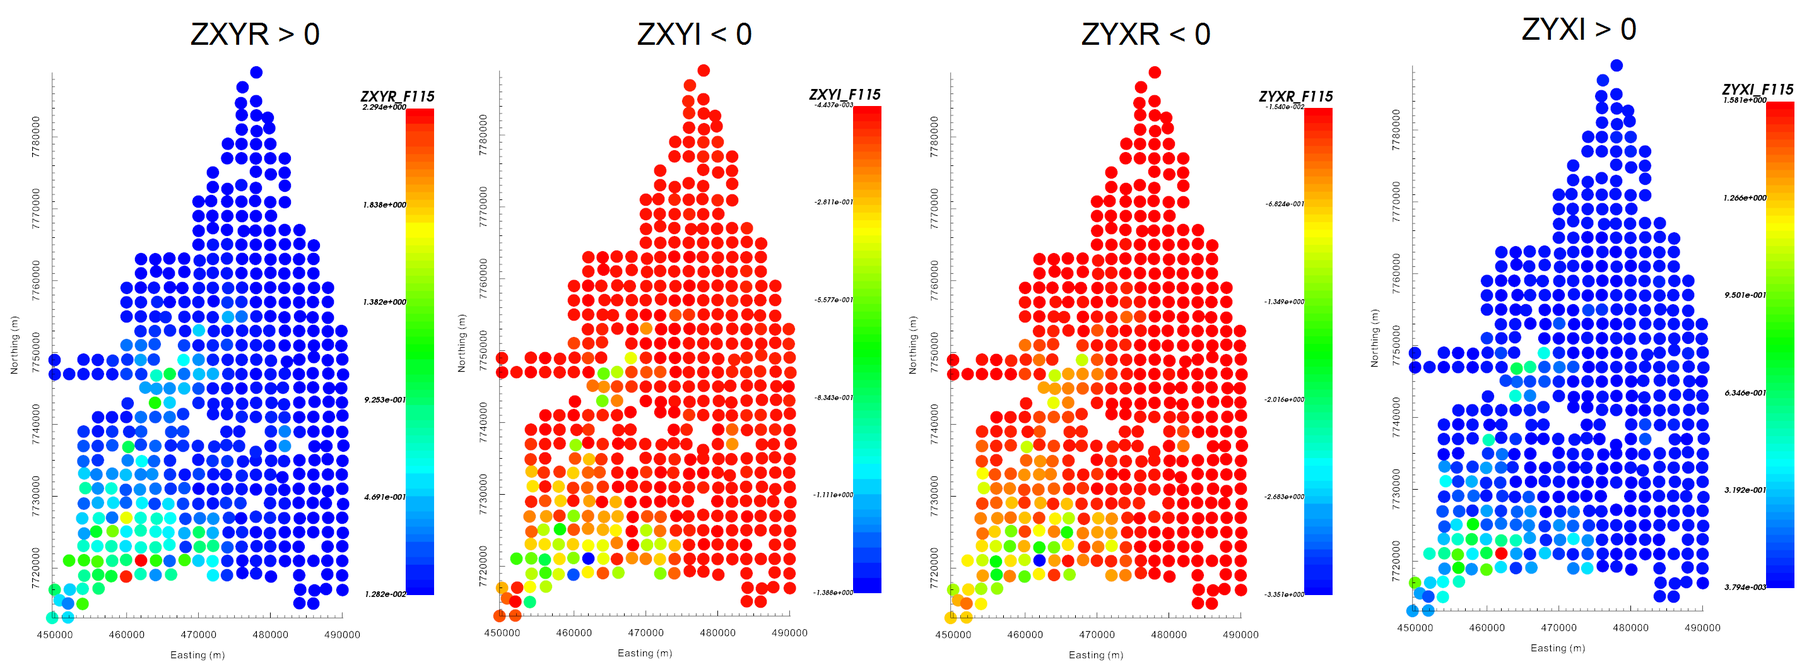
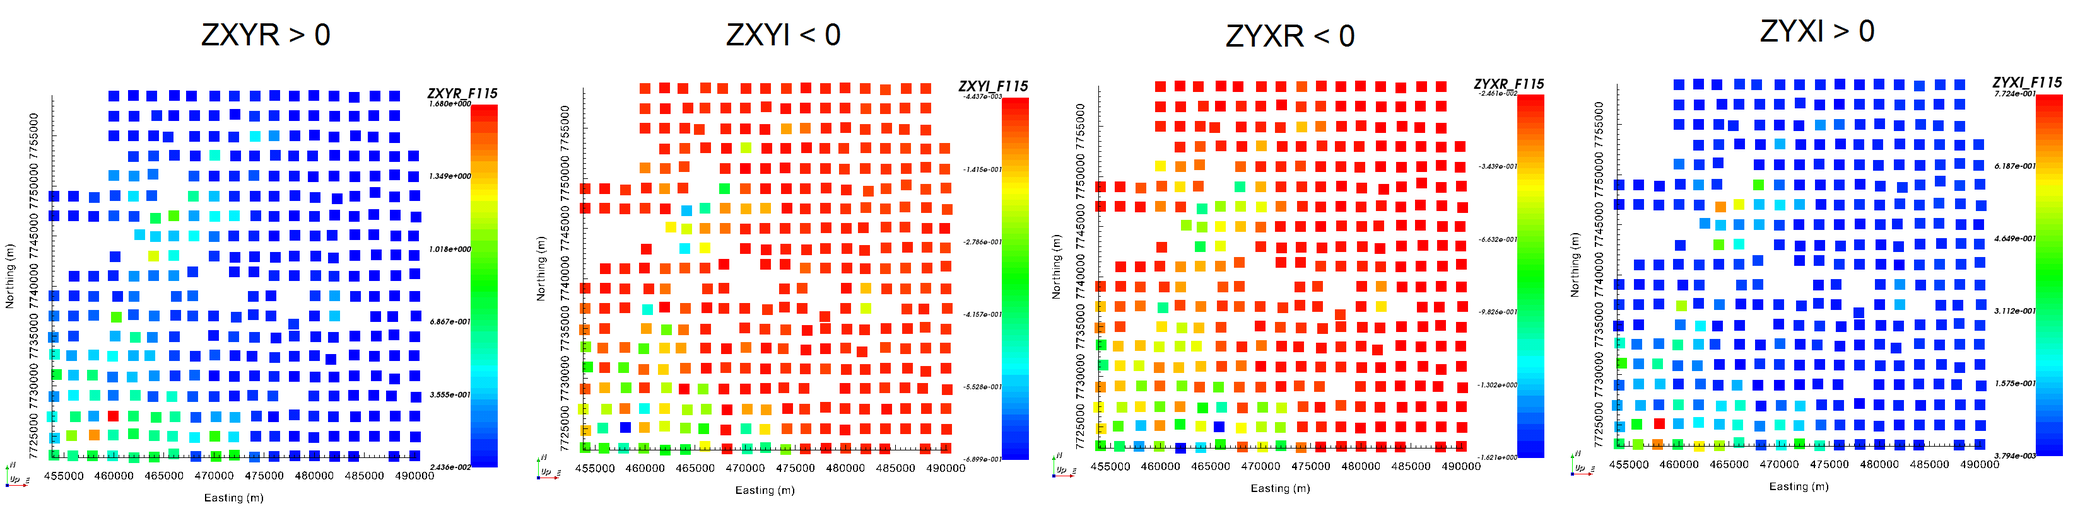
More to MT workflow

diff --git a/content/comprehensive_workflow/mt/6_inversion.rst b/content/comprehensive_workflow/mt/6_inversion.rst
@@ -1,7 +1,7 @@
 .. _comprehensive_workflow_mt_6:
 
 
-ZTEM Inversion
+MT Inversion
 ==============
 
 Here, we provide the steps for setting up and running an inversion with E3DMT or E3DMT v2. We then discuss some important aspects of choosing inversion parameters.
@@ -10,7 +10,7 @@ Here, we provide the steps for setting up and running an inversion with E3DMT or
 Reducing Artifacts through Interface Weighting
 ----------------------------------------------
 
-When inverting ZTEM data, the E3DMT codes have a tendency to place conductive structures near receiver locations due to the sensitivity of the data to those cells. Here, we generate interface weights to counteract this problem. By forcing lateral smoothness within the top few layers of cells, we can limit the artifacts and force the inversion to place conductive structures at the appropriate depths.
+When inverting MT data, the E3DMT codes have a tendency to place conductive structures near receiver locations due to the sensitivity of the data to those cells. Here, we generate interface weights to counteract this problem. By forcing lateral smoothness within the top few layers of cells, we can limit the artifacts and force the inversion to place conductive structures at the appropriate depths.
 
     - :ref:`Create and interface weights utility <createinterfWeights>`
     - Use :ref:`edit options <utilEditOptions>` and set the following parameters:
@@ -18,9 +18,9 @@ When inverting ZTEM data, the E3DMT codes have a tendency to place conductive st
         - set the OcTree mesh
         - set as *log model*
         - set topography as the active cells model
-        - set number of layers and corresponding weights (choose something exponentially decreasing. We chose 20, 10, and 5)
-        - Face value = 0.001
-        - Face tolerance = 0.001
+        - set number of layers and corresponding weights (choose something exponentially decreasing. We chose 100, 20, and 4)
+        - Face value = 0.01
+        - Face tolerance = 0.01
 
     - :ref:`Run the utility <utilRun>`
     - :ref:`Load results <utilLoadResults>`
@@ -30,9 +30,9 @@ When inverting ZTEM data, the E3DMT codes have a tendency to place conductive st
 Create, Run and Load Inversion
 ------------------------------
 
-We can now invert ZTEM data using E3DMT v1 or v2. 
+We can now invert MT data using E3DMT v1 or v2. 
 
-    - :ref:`Create E3DMT v1 or v2 inversion object <createMTZTEMInv>`
+    - :ref:`Create E3DMT v1 or v2 inversion object <createMTMTInv>`
     - Use edit options for :ref:`v1 <invEditOptions_e3dmt_ver1>` or :ref:`v2 <invEditOptions_e3dmt_ver2>` to set the inversion parameters
     - Click *Apply and write files*
     - :ref:`Run the inversion <invRun>`
@@ -58,28 +58,18 @@ For synthetic modeling, we know the uncertainties on our data. So when the data 
 
 When setting the cooling schedule for the field dataset, the strategy was pretty straightforward:
 
-    - **beta max = 0.1**. The model recovered at the first iteration should clearly underfit the data. However if *beta max* is too large, you will have multiple iterations where the model doesn't budge because no emphasis is being put on fitting the data.
-    - **beta min = 1e-7**. This can be set quite low. But it is good for the inversion to terminate within a reasonable number of beta iterations if target misfit is not reached.
+    - **beta max = 0.01**. The model recovered at the first iteration should clearly underfit the data. However if *beta max* is too large, you will have multiple iterations where the model doesn't budge because no emphasis is being put on fitting the data. We knew a good starting beta for the final inversion from cursory inversions of the data.
+    - **beta min = 1e-10**. This can be set quite low. But it is good for the inversion to terminate within a reasonable number of beta iterations if target misfit is not reached.
     - **reduction factor = 0.25:** Generally we choose a value between 0.1 and 0.9. If the reduction factor is too large, the code will run for a long time since the reduction in beta at each iteration is small. If the reduction factor is too small, we do not get much detail regarding the convergence of the inversion.
-    - **chi factor = 1** Here, we assume that appropriate uncertainties are set on the data. Thus, we assume the recovered model that explains the data without overfitting (fitting the noise) occurs when the data misfit equals the number of data observations (chi factor = 1). In practice, you may choose a chi factor less than 1. This will allow you to get a better understanding of the convergence, especially if you have over-estimated the uncertainties.
+    - **chi factor = 1** Here, we assume that appropriate uncertainties are set on the data. Thus, we assume the recovered model explains the data without over-fitting (fitting the noise) when the data misfit equals the number of data observations (chi factor = 1). In practice, you may choose a chi factor less than 1. This will allow you to get a better understanding of the convergence, especially if you have over-estimated the uncertainties.
 
 **Regarding the alpha parameters:**
 
-As a default setting, we frequently let :math:`\alpha_x = \alpha_y = \alpha_z = 1` and we let :math:`alpha_s = 1/dh^2'; where :math:`dh` is the width of the smallest cells in the mesh. This effectively balances the emphasis on recovering a model that is similar to a reference model and recovering a model that has sufficient structure. If we have high confidence in our reference model, we may choose to increase :math:`\alpha_s` relative to :math:`\alpha_x`, :math:`\alpha_y` and :math:`\alpha_z`. If we have low confidence in our reference model, we may choose to decrease :math:`\alpha_s` relative to :math:`\alpha_x`, :math:`\alpha_y` and :math:`\alpha_z`
+As a default setting, we frequently let :math:`\alpha_x = \alpha_y = \alpha_z = 1` and we let :math:`alpha_s = 1/dh^2'; where :math:`dh` is the width of the smallest cells in the mesh. This effectively balances the emphasis on recovering a model that is similar to a reference model, and recovering a model that has sufficient structure. If we have high confidence in our reference model, we may choose to increase :math:`\alpha_s` relative to :math:`\alpha_x`, :math:`\alpha_y` and :math:`\alpha_z`. If we have low confidence in our reference model, we may choose to decrease :math:`\alpha_s` relative to :math:`\alpha_x`, :math:`\alpha_y` and :math:`\alpha_z`
 
-For this exercise, we have been provided with zero prior information regarding the Earth's structure or its electrical conductivity. We have assumed the background conductivity is 0.001 S/m but at no point have we validated this assumption. As a result, we have set :math:`\alpha_s = 10^{-10}` and let :math:`\alpha_x = \alpha_y = \alpha_z = 1`. This will recover a conductivity model which is primarily driven by the data, and is impacted minimally by the reference model.
+For this exercise, we have been able to infer the range of resistivities for this region from apparent resistivity maps and sounding curves. However, we could not identify a consistent background resistivity that works throughout the whole region. As a result, we have set :math:`\alpha_s = 10^{-10}` and let :math:`\alpha_x = \alpha_y = \alpha_z = 1`. This will recover a conductivity model which is primarily driven by the data, and is impacted minimally by the reference model.
 
 **Regarding the background, starting and reference models**
 
-For the background, starting and reference models, we chose 0.001 S/m. This value was suggested by a 2D ZTEM study that came with the original dataset. Before you choose these values for your project, there are some things you should consider.
-
-If you choose a background conductivity that is lower than the true conductivity:
-
-    - The overall range of conductivities in the recovered model may be lower than the true range of conductivities.
-    - Your inversion will be more sensitive to structures at depth. Recovered conductors may be lower conductivity and placed at larger depths.
-
-If you choose a background conductivity that is higher than the true conductivity:
-
-    - The overall range of conductivities in the recovered model may be higher than the true range of conductivities.
-    - Your inversion will be not but as sensitive to structures at depth. Recovered conductors may highly conductive and placed at shallower depths.
+For the background, starting and reference models, we chose 0.05 S/m. This value was used to compute the smallest and largest skin depths, which we used to construct our mesh.
 

diff --git a/content/comprehensive_workflow/mt/5_mesh_design.rst b/content/comprehensive_workflow/mt/5_mesh_design.rst
@@ -4,7 +4,7 @@
 Mesh Design
 ===========
 
-Here we a basic approach for mesh design when inverting ZTEM data. The field data provided was collected in a region with minimal topography. However, the approach is the same in the case of extreme topography.
+Here we a basic approach for mesh design when inverting MT data. The field data provided was collected in a region with minimal topography. However, the approach is the same in the case of extreme topography.
 
 
 Skin Depth
@@ -15,20 +15,21 @@ For frequency-domain data, an important step is to compute the minimum and maxim
 .. math::
 	\delta \approx 500 \sqrt{\frac{\rho}{f}} = 500 \sqrt{\frac{1}{\sigma f}}
 
-The background resistivity can be obtained from the apparent resistivity maps.
+The background resistivity can be obtained from the apparent resistivity maps and sounding curves.
 
 
 **Our Approach:**
 
-2D ZTEM inversion results from past studies used a background conductivity of 0.001 S/m. As a result, we assume a background conductivity of 0.001 S/m. We are inverting 6 frequencies between 30 Hz and 720 Hz. For the maximum and minimum frequencies, and for the background conductivity chosen, the skin depths are:
+According to the apparent resistivity maps and sounding curves, the Earth is fairly conductive. Over the range of frequencies we are inverting, we estimated a background resistivity of 20 :math:`\Ohm m`. From the skin depth formula:
 
-	- :math:`\delta_{min}` = 589 m
-	- :math:`\delta_{max}` = 2887 m
+	- :math:`\delta_{min}` = 104 m
+	- :math:`\delta_{max}` = 1462 m
+
 
 Create Mesh
 ^^^^^^^^^^^
 
-Here, we explain how to create an OcTree mesh based on ZTEM survey geometry. We also explain the reasoning for the parameter values entered. We can create OcTree meshes from ZTEM surveys with the following utilities:
+Here, we explain how to create an OcTree mesh based on MT survey geometry. We also explain the reasoning for the parameter values entered. We can create OcTree meshes from MT surveys with the following utilities:
 
 	- :ref:`create OcTree mesh with E3DMT utilities <createE3DMToctreeMesh>`
 	- :ref:`create OcTree mesh with E3DMT v2 utilities <createE3DMTv2octreeMesh>`
@@ -40,7 +41,7 @@ Once you have created the object, complete the following steps:
 	3) Run the utility
 	4) Load results
 
-For the field data provided, we chose to create the mesh using E3DMT v2 utilities. This was done because we are able to define the receiver loops. The parameters set in *Edit Options* are shown below along with reasoning for several important choices. For definitions of the parameters, consult the `E3DMT <https://e3dmt.readthedocs.io/en/e3dmt/content/inputfiles/createOcTree.html>`__ or `E3DMT v2 <https://e3dmt.readthedocs.io/en/e3dmt_v2/content/inputfiles/createOcTree.html>`__ manual.
+For the field data provided, we chose to create the mesh using E3DMT v2 utilities. This was done because we are able to define the dipole and loop receivers. The parameters set in *Edit Options* are shown below along with reasoning for several important choices. For definitions of the parameters, consult the `E3DMT <https://e3dmt.readthedocs.io/en/e3dmt/content/inputfiles/createOcTree.html>`__ or `E3DMT v2 <https://e3dmt.readthedocs.io/en/e3dmt_v2/content/inputfiles/createOcTree.html>`__ manual.
 
 
 .. figure:: images/mesh_design.png
@@ -49,9 +50,11 @@ For the field data provided, we chose to create the mesh using E3DMT v2 utilitie
 
     Parameters used to define the mesh for the field dataset using E3DMT v2 mesh utility.
 
-**Minimum cell width (horizontal):** A minimum horizontal cell width of 150 m was chosen based on a minimum data separation of 400 m. In practice, the user should have at least 2-3 cells between each data point. In general, the down-sampling and minimum horizontal cell width is dependent on the flight-line separation.
 
-**Minimum cell width (vertical):** The minimum vertical cell width is determined primarily by the smallest skin depth. If the topography is flat and the geology is relatively simple, the minimum vertical cell width can be roughly 10%-20% the minimum skin depth. Because the source signal for natural source EM data is a vertically propagating plane-wave, it is sometimes more beneficial to discretize in the vertical more than in the horizontal; because lateral variations in the fields are smaller. For the dataset provided, a minimum vertical cell width of 75 m was chosen.
+**Minimum cell width (vertical):** The minimum vertical cell width is determined primarily by the smallest skin depth. If the topography is flat and the geology is relatively simple, the minimum vertical cell width can be roughly 10%-20% the minimum skin depth. For the dataset provided, a minimum vertical cell width of 25 m was chosen.
+
+**Minimum cell width (horizontal):** The minimum horizontal cell width is usually determined by the station spacing. It is good to have a least 3 cells between each station. For the tutorial data, the station spacing is roughly 2 km. Since the source is a vertically propagating plane-wave, we can discretize much more coarsely along the horizontal. However there are limits to this. To balance mesh size and ensure we model the fields correctly, we chose a minimum horizontal cell width of 250 m. 
+
 
 **Max. topo cell:** Even if the topography is significant, we do not want to over-discretize in regions away from the survey, as the fields there do not greatly impact the data. As a result, this parameter was set to a larger number. If you want to more finely discretize the topography, set this to 4, or even 2. E3DMT v1 does not have this option.
 
@@ -61,9 +64,9 @@ For the field data provided, we chose to create the mesh using E3DMT v2 utilitie
 
 **Number of cells around Rx:** The number of fine mesh cells near receivers does need to be as large for natural source EM modeling as is does for controlled source EM modeling. Fields associated with natural sources are are much smoother. You can make the mesh a much more reasonable size by taking advantage of this, however sufficient discretization is still required to model the fields accurately.
 
-**Make polygon:** For UBC-GIF v2 codes, this parameter controls the horizontal extent of the core mesh region. In pratice, this should be 1-2 times the smallest skin depth.
+**Make polygon:** For UBC-GIF v2 codes, this parameter controls the horizontal extent of the core mesh region. In practice, this should be 1-2 times the smallest skin depth.
 
-**Shift data:** We chose to shift the data locations so that true flight height was preserved over the discretized topography. **See important notices below**.
+**Shift data:** We chose to shift the data locations so that receivers lie on the discretized topography. If you fail to do this, you may be measuring electric fields in the air. **See important notices below**.
 
 
-.. important:: If you choose to *shift data* for E3DMT v2 utilities, the mesh utility will create a receivers file. When loading output, a new data object is created under the mesh utility. You will notice that the base station is **not** defined and that the *ZTEM data type* is 'MTH'. This is not a problem, as all receivers are organized to measure the fields at the appropriate places. But if you are concerned, you can repeat the steps in the :ref:`data preparation section <comprehensive_workflow_mt_4>` .
+.. important:: If you choose to *shift data* for E3DMT v2 utilities, the mesh utility will create a receivers file. When loading output, a new data object is created under the mesh utility. All the receivers are organized to measure the fields at the appropriate places. But if you are concerned, you can repeat the steps in the :ref:`data preparation section <comprehensive_workflow_mt_4>` .

diff --git a/content/comprehensive_workflow/mt/7_results.rst b/content/comprehensive_workflow/mt/7_results.rst
@@ -6,7 +6,7 @@ Inversion Results
 
 Here, we demonstrate a common practice for examining the output of the inversion code. This includes examining the convergence, the data misfit and the recovered model. Before looking at recovered models, the user is **strongly** urged to examine the convergence of the algorithm first (Tikhonov curve). By examining the convergence, we can:
 
-	- determine if our data is in UBC-GIF data convention. The data misfit will be large and will not reduces at each iteration otherwise.
+	- determine if our data is in UBC-GIF data convention. The data misfit will be large and will not reduce at each iteration otherwise.
 	- see if the inversion is able to reach target misfit
 	- infer whether the target misfit is reasonable; i.e. did we globally over or under-estimate the uncertainties on our data
 
@@ -29,9 +29,9 @@ Once the inversion result have been loaded (done in the :ref:`inversion section<
 
 The Tikhonov curve for our example inversion is shown below. According to the figure:
 
-	- the inversion reaches target misfit (chi-factor = 1 in this case) after 4 iterations. Thus the algorithm is converging over the course of the beta cooling schedule.
-	- the inversion reaches a chi-factor of 1 (data misfit equals number of data) somewhere between the 3rd or 4th iteration. Assuming the estimate of our uncertainties is correct, the optimum recovered model should correspond to a chi-factor of 1.
-	- the Tikhonov curve starts to flatten out at the 4th iteration, indicating the point on the Tikhonov curve after which recovered models start to over-fit the data. You may choose to verify this by setting the chi factor to something like 0.5 and re-running the inversion.
+	- the inversion reaches target misfit (chi-factor = 1 in this case) after 6 iterations. Thus the algorithm is converging over the course of the beta cooling schedule.
+	- the Tikhonov curve starts to flatten out at the 4th iteration, indicating the point on the Tikhonov curve after which recovered models start to over-fit the data.
+
 
 .. figure:: images/convergence.png
     :align: center
@@ -40,29 +40,29 @@ The Tikhonov curve for our example inversion is shown below. According to the fi
 Data Misfit
 ^^^^^^^^^^^
 
-According the Tikhonov curve, the recovered model at iteration 4 has a good change of explaining the data without fitting the noise. To be sure however, we must examine the observed data, predicted data and data misfit for the corresponding model. Here are some good questions to ask during this step:
+According the Tikhonov curve, the recovered model at iteration 4 has a good chance of explaining the data without fitting the noise. To be sure however, we must examine the observed data, predicted data and data misfit for the corresponding model. Here are some good questions to ask during this step:
 
 	- Are the prominent anomaly features identified in the observed data also found in the predicted data? Is this true for all components and for all frequencies?
 	- Are there obvious coherent features in your normalized misfit map? If so, this indicates you are over-fitting certain regions at the expense of others and that you must assign new uncertainties and re-run the inversion.
 	- Are the ranges of normalized misfits for each component and for each frequency generally the same? If not, the uncertainties are not balanced between components and/or frequencies. In this case, new uncertainties should be applied and the inversion should be re-run.
 
-For our example inversion, here are some things we noticed:
-
-	- The general shape and amplitude of the main geophysical signatures are well reproduced by the predicted data at all frequencies and for all components.
-	- The range of normalized misfits are generally consistent over all frequencies and over all components. This indicates that our basic estimate of the data uncertainties was a good first estimate.
-	- The TZXI component has noticeably smaller normalized misfits than the other components, indicating the inversion fits these data better than it does the other components.
-	- TZYI shows higher normalized misfits and more coherent features at low frequencies.
-	- Individual misfit maps shown coherent features, but these features are not consistent over all frequencies.
-	
-
-For our example, better results could be obtained by decreasing the floor uncertainty on TZXI by some factor and re-running the inversion to ensure we recover a model which fits the data evenly. This change will force the inversion to fit the TZXI component as well as it does the TZXR, TZYR and TZYI components. We may also adjust the floor uncertainty for individual components and frequencies which we feel are over/under fit.
+**Off-Diagonal Components:**
 
 
-.. figure:: images/misfit.png
+.. figure:: images/misfit_off_diag.png
     :align: center
     :width: 700
 
-    Predicted data, observed data and normalized misfit for all data components at 180 Hz. For each component, predicted and observe data are plotted on the same scale. All normalized misfit maps are plotted on a range from -3 to 3.
+    Observed data, predicted data and normalized misfit for all off-diagonal impedance components at 13.7 Hz. For each component, predicted and observe data are plotted on the same scale. All normalized misfit maps are plotted on a range from -3 to 3.
+
+
+**Diagonal Components:**
+
+.. figure:: images/misfit_diag.png
+    :align: center
+    :width: 700
+
+    Observed data, predicted data and normalized misfit for all diagonal impedance components at 13.7 Hz. For each component, predicted and observe data are plotted on the same scale (-0.1 - 0.1). All normalized misfit maps are plotted on a range from -3 to 3.
 
 
 Recovered Model
@@ -70,7 +70,7 @@ Recovered Model
 
 The conductivity model recovered at the 4th iteration is shown below. A cutoff of 0.003 S/m was applied. The model was also sliced horizontally at an elevation of 253 m. To show how well structures in the recovered model match data signatures, we plotted the total divergence parameter at 45 Hz and at 180 Hz.
 
-The inversion recovers the large conductive feature that strikes along a bearing of 35 degrees. The conductivity along the recovered feature corresponds well to amplitude of the ZTEM response. A secondary conductive feature is also recovered at the Southernmost tip of the survey area. Along the Eastern end of the of the survey area, ZTEM data and the total divergence parameter indicated the possible presence of another conductor. Although the inversion placed conductive structures in this area, the feature is poorly constrained by the data. 
+The inversion recovers the large conductive feature that strikes along a bearing of 35 degrees. The conductivity along the recovered feature corresponds well to amplitude of the MT response. A secondary conductive feature is also recovered at the Southernmost tip of the survey area. Along the Eastern end of the of the survey area, MT data and the total divergence parameter indicated the possible presence of another conductor. Although the inversion placed conductive structures in this area, the feature is poorly constrained by the data. 
 
 
 .. figure:: images/recovered_001_iter4.png

diff --git a/content/comprehensive_workflow/mt/3_data_preparation.rst b/content/comprehensive_workflow/mt/3_data_preparation.rst
@@ -4,7 +4,7 @@
 Apparent Resistivities and Data Preparation
 ===========================================
 
-At this point, we assume the data are loaded into GIFtools and that our impedance tensor values are defined in the standard UBC-GIF convention. It is difficult to gain information about the Earth's electrical resistivity from impedances. That is why the initial interpretation of the data is generally done using apparent resistivities. We will provide a basic interpretation for our tuturial data set.
+At this point, we assume the data are loaded into GIFtools and that our impedance tensor values are defined in the standard UBC-GIF convention. It is difficult to gain information about the Earth's electrical resistivity from impedances. That is why the initial interpretation of the data is generally done using apparent resistivities. We will provide a basic interpretation for our tutorial data set.
 
 When looking at your data for the first time, you will notice that 1) you have data at many frequencies, and 2) the range of frequencies spans many orders of magnitude. For the tutorial data set, we have data at 100 frequencies from 0.00034 Hz to 10400 Hz. It is impossible to invert all of the data at once. As a result, we must extract a reasonable set of frequencies which are sensitive to the target.
 
@@ -21,7 +21,7 @@ If you have :ref:`set IO headers <objectSetioHeaders>` for the impedance data, i
 
 **Interpreting apparent resistivity maps**
 
-Below, we see the apparent resistivity maps obtained from the :math:`Z_{xy}` component at 11 Hz, 110 Hz, 1100 Hz and 10400 Hz. The range of apparent resistivity values is reasonable (1 :math:`\Omega m` - 10000 :math:`\Omega m` ), indicating the impedance data are likely represented in the correct units for UBC-GIF codes. The maps indicate:
+Below, we see the apparent resistivity maps obtained from the :math:`Z_{xy}` component at 2.03 Hz, 22.5 Hz, 229 Hz and 2200 Hz. The range of apparent resistivity values is reasonable (1 :math:`\Omega m` - 10000 :math:`\Omega m` ), indicating the impedance data are likely represented in the correct units for UBC-GIF codes. The maps indicate:
 
 	- the near surface is very conductive.
 	- at depth, the Earth is much more resistive towards the Southeast
@@ -32,15 +32,16 @@ Below, we see the apparent resistivity maps obtained from the :math:`Z_{xy}` com
     :align: center
     :width: 700
 
-    Apparent resistivity maps obtained from the :math:`Z_{xy}` component at 11 Hz (left), 110 Hz (middle) and 1100 Hz (right).
+    From left to right: apparent resistivity maps obtained from the :math:`Z_{xy}` component at 2.03 Hz, 22.5 Hz, 229 Hz and 2200 Hz.
 
 
 **Interpreting sounding curves**
 
-Below, we see sounding curve for the apparent resistivities computed from the :math:`Z_{xy}` component. All three curve indicate:
+Below, we see sounding curve for the apparent resistivities computed from the :math:`Z_{xy}` component. We observe that:
 
-	- a highly conductive near-surface geology
-	- at intermediate depth, the Earth is increasingly resistive towards the Southwest
+	- the Earth is quite conductive near the surface and at depth in the Northeast.
+	- towards the Southwest, the near surface is more conductive while the Earth is resistive at depth.
+	- the Earth is increasingly resistive towards the Southwest.
 	- at low frequencies, it is difficult to make an interpretation as the data are more contaminated by 3D effects.
 
 
@@ -48,7 +49,7 @@ Below, we see sounding curve for the apparent resistivities computed from the :m
     :align: center
     :width: 500
 
-    Sounding curves for 3 locations: North (black), center (red) and Southwest (blue).
+    Sounding curves for 3 locations: Northeast (black), center (red) and Southwest (blue).
 
 
 
@@ -64,7 +65,7 @@ Using GIFtools, we can extract data at a subset of the total range of frequencie
 
 	- :ref:`Frequency-based extraction of data<objectTimeFreqExtract>`
 
-For the tutorial data, we extracted the data at 5 logarithmically spaced frequencies from 4.1 Hz to 1100 Hz.
+For the tutorial data, we extracted the data at 4 logarithmically spaced frequencies from 2.34 Hz to 460 Hz.
 
 
 .. important:: As a general rule, our extracted data should be at frequencies that span a maximum of 3 orders of magnitude. This ensures the smallest cells in the mesh can correctly model the highest frequencies. And ensures we can create a large enough mesh for modeling the lowest frequency.
@@ -81,8 +82,8 @@ E3DMT v1 models the magnetic fields at discrete points whereas E3DMT v2 allows t
 
 According to the contractor, the electric field dipoles had lengths of 100 m. Phoenix MTC‐150L coils were used to measure the magnetic fields. Receivers measuring the magnetic fields are much smaller than the cell dimensions being used to model the fields. If the contractor does not provide you with the coil receiver's dimensions, you may choose a value such as 1 m. We used the following parameters to fill the fields:
 
-	- **Hx, Hy receiver width: 1 m**
-	- **Hx, Hy number of segments: 8**
+	- **Hx, Hy receiver width: 4 m**
+	- **Hx, Hy number of segments: 4**
 	- **Ex, Ey receiver length: 100 m**
 	- **Ex, Ey number of segments: 4**
 	- **Orientation from Nothing (deg): 0** (since data are defined Northing-Easting-Down)

diff --git a/content/comprehensive_workflow/mt/4_uncertainties.rst b/content/comprehensive_workflow/mt/4_uncertainties.rst
@@ -50,7 +50,7 @@ There are a few options for choosing the floor uncertainty values for each compo
     1) The user may take some fractional percents of the largest anomalous value and use that as the floor.
     2) The user may sort the data by absolute value, and choose a threshold at which the data values contain an insignificant amount of signal and are dominated by noise.
 
-Since the diagonal impedances do less to constrain the inversion result than the off-diagonal components, it is best to over-estimate the uncertainties for ZXXR, ZXXI, ZYYR and ZYYI rather than to under-estimate the uncertainties. To ensure that off-diagonal impedances are driving the inversion, sometimes very large uncertainties are applied to the diagonal imdpedances.
+Since the diagonal impedances do less to constrain the inversion result than the off-diagonal components, it is best to over-estimate the uncertainties for ZXXR, ZXXI, ZYYR and ZYYI rather than to under-estimate the uncertainties. To ensure that off-diagonal impedances are driving the inversion, sometimes very large uncertainties are applied to the diagonal impedances.
 
 
 .. figure:: images/Uncertainties_Approach_Floor.png
@@ -65,7 +65,33 @@ To examine sorted data and apply uncertainties:
     - Use the :ref:`GUI for applying frequency-dependent uncertainties <objectAssignUncertGUI>`.
 
 
-.. note:: To keep the tutorial example simple, we choose to add uncertainties of 0.02 + 20% to all diagonal impedances (ZXXR, ZXXI, ZYYR and ZYYI). And uncertainties of 0.0001 + 5% were added to all off-diagonal impedances (ZXYR, ZXYI, ZYXR and ZYXI).
+Uncertainties for Tutorial Data
+-------------------------------
+
+**Off-Diagonal Impedances (ZXYR, ZXYI, ZYXR and ZYXI):**
+
+For off-diagonal impedance components, we applied both a percent and a floor. For all components and for all frequencies, the percent uncertainty was 10%. Choosing a floor was more involved.
+
+From the higher frequency data, we saw significant fluctuations in the apparent resistivities corresponding to the near-surface. We felt that the uncertainty in the apparent resistivities was roughly 1 :math:`\Omega m`. To convert this to impedances, we used the apparent resistivity formula. So for each frequency, the floor is given by:
+
+.. math::
+    \varepsilon (f) \sqrt{2*\pi*f* (1 \Omega m)}
+
+This resulted in floor uncertainties of: 0.0043, 0.01, 0.025 and 0.06 V/A. Essentially, the floor uncertainties ensures we do not try to fit the fluctuations in the very high conductivities which are likely at the Earth's surface.
+
+When inverting these data for the first time, we did not apply this floor. We found that our inversion did not converge, we over-fit the near surface and we did not recover resistive structures very well.
+
+
+**Diagonal Impedances (ZXXR, ZXXI, ZYYR and ZYYI):**
+
+For diagonal impedance components, we applied a floor uncertainty equal to 5% the maximum value. This was done separately for each component and for each frequency.
+
+
+**Erroneous Data:**
+
+In both the diagonal and off-diagonal components, there were obvious erroneous data. To keep the tutorial simple, we did not address this. As a result, we will likely over-fit these data values. In practice, you make choose to remove the erroneous data or individually apply a very large uncertainty to them. To switch an individual datum to NaN or to assign a large uncertainty, you can manually edit though:
+
+    - :ref:`Table viewer <viewData_table>`
 
 
 

diff --git a/content/comprehensive_workflow/ztem/6_inversion.rst b/content/comprehensive_workflow/ztem/6_inversion.rst
@@ -58,10 +58,10 @@ For synthetic modeling, we know the uncertainties on our data. So when the data 
 
 When setting the cooling schedule for the field dataset, the strategy was pretty straightforward:
 
-    - **beta max = 0.1**. The model recovered at the first iteration should clearly underfit the data. However if *beta max* is too large, you will have multiple iterations where the model doesn't budge because no emphasis is being put on fitting the data.
+    - **beta max = 0.1**. The model recovered at the first iteration should clearly under-fit the data. However if *beta max* is too large, you will have multiple iterations where the model doesn't budge because no emphasis is being put on fitting the data.
     - **beta min = 1e-7**. This can be set quite low. But it is good for the inversion to terminate within a reasonable number of beta iterations if target misfit is not reached.
     - **reduction factor = 0.25:** Generally we choose a value between 0.1 and 0.9. If the reduction factor is too large, the code will run for a long time since the reduction in beta at each iteration is small. If the reduction factor is too small, we do not get much detail regarding the convergence of the inversion.
-    - **chi factor = 1** Here, we assume that appropriate uncertainties are set on the data. Thus, we assume the recovered model that explains the data without overfitting (fitting the noise) occurs when the data misfit equals the number of data observations (chi factor = 1). In practice, you may choose a chi factor less than 1. This will allow you to get a better understanding of the convergence, especially if you have over-estimated the uncertainties.
+    - **chi factor = 1** Here, we assume that appropriate uncertainties are set on the data. Thus, we assume the recovered model explains the data without over-fitting (fitting the noise) when the data misfit equals the number of data observations (chi factor = 1). In practice, you may choose a chi factor less than 1. This will allow you to get a better understanding of the convergence, especially if you have over-estimated the uncertainties.
 
 **Regarding the alpha parameters:**
 

diff --git a/content/comprehensive_workflow/mt/2_load_data.rst b/content/comprehensive_workflow/mt/2_load_data.rst
@@ -28,7 +28,7 @@ Here, we import the impedance data and topography.
 
     - First, :ref:`import topography data (XYZ format) <importTopo>`. The data file is named *MTtopo.xyz*.
 
-    - Next, :ref:`import EDI standard impedance data <importNSEMData_edi>`. For this step, you **must** know before-hand if your data are defined Northing-Easting-Down or Easting-Northing-Up. This will ensure your data columns are appropriately labeled after being loaded into GIFtools. The EDI files for the tutorial example are in the *processed_edi* folder. If you are using the tutorial data:
+    - Next, :ref:`import EDI standard impedance data <importNSEMData_edi>`. For this step, you **must** know before-hand if your data are defined Northing-Easting-Down or Easting-Northing-Up. This will ensure your data columns are appropriately labeled after being loaded into GIFtools. The EDI files for the tutorial example are in the *EDIfiles* folder. If you are using the tutorial data:
 
         - We are loading data at 100 frequencies between 0.00034 Hz and 10400 Hz. Certain frequencies may be missing at certain stations.
         - You can choose to load all variables. But for this example you only need: FREQ, ZROT, ZXXR, ZXXI, ZXYR, ZXYI, ZYXR, ZYXI, ZYYR and ZYYI.
@@ -57,7 +57,7 @@ Below, we see the real and imaginary components of :math:`Z_{xy}` and :math:`Z_{
     :align: center
     :width: 700
 
-    From left to right: ZXYR, ZXYI, ZYXR and ZYXI at 100 Hz.
+    From left to right: ZXYR, ZXYI, ZYXR and ZYXI at 115 Hz.
 
 
 Rotating Impedance Tensor Data

diff --git a/content/objectFunctionality/data/general/dataVisualization.rst b/content/objectFunctionality/data/general/dataVisualization.rst
@@ -22,6 +22,8 @@ VTK data viewer
 The shortcut for this viewer is ``control + k`` for any item selected in the tree.
 
 
+.. _viewData_table:
+
 Table viewer
 ^^^^^^^^^^^^
 
